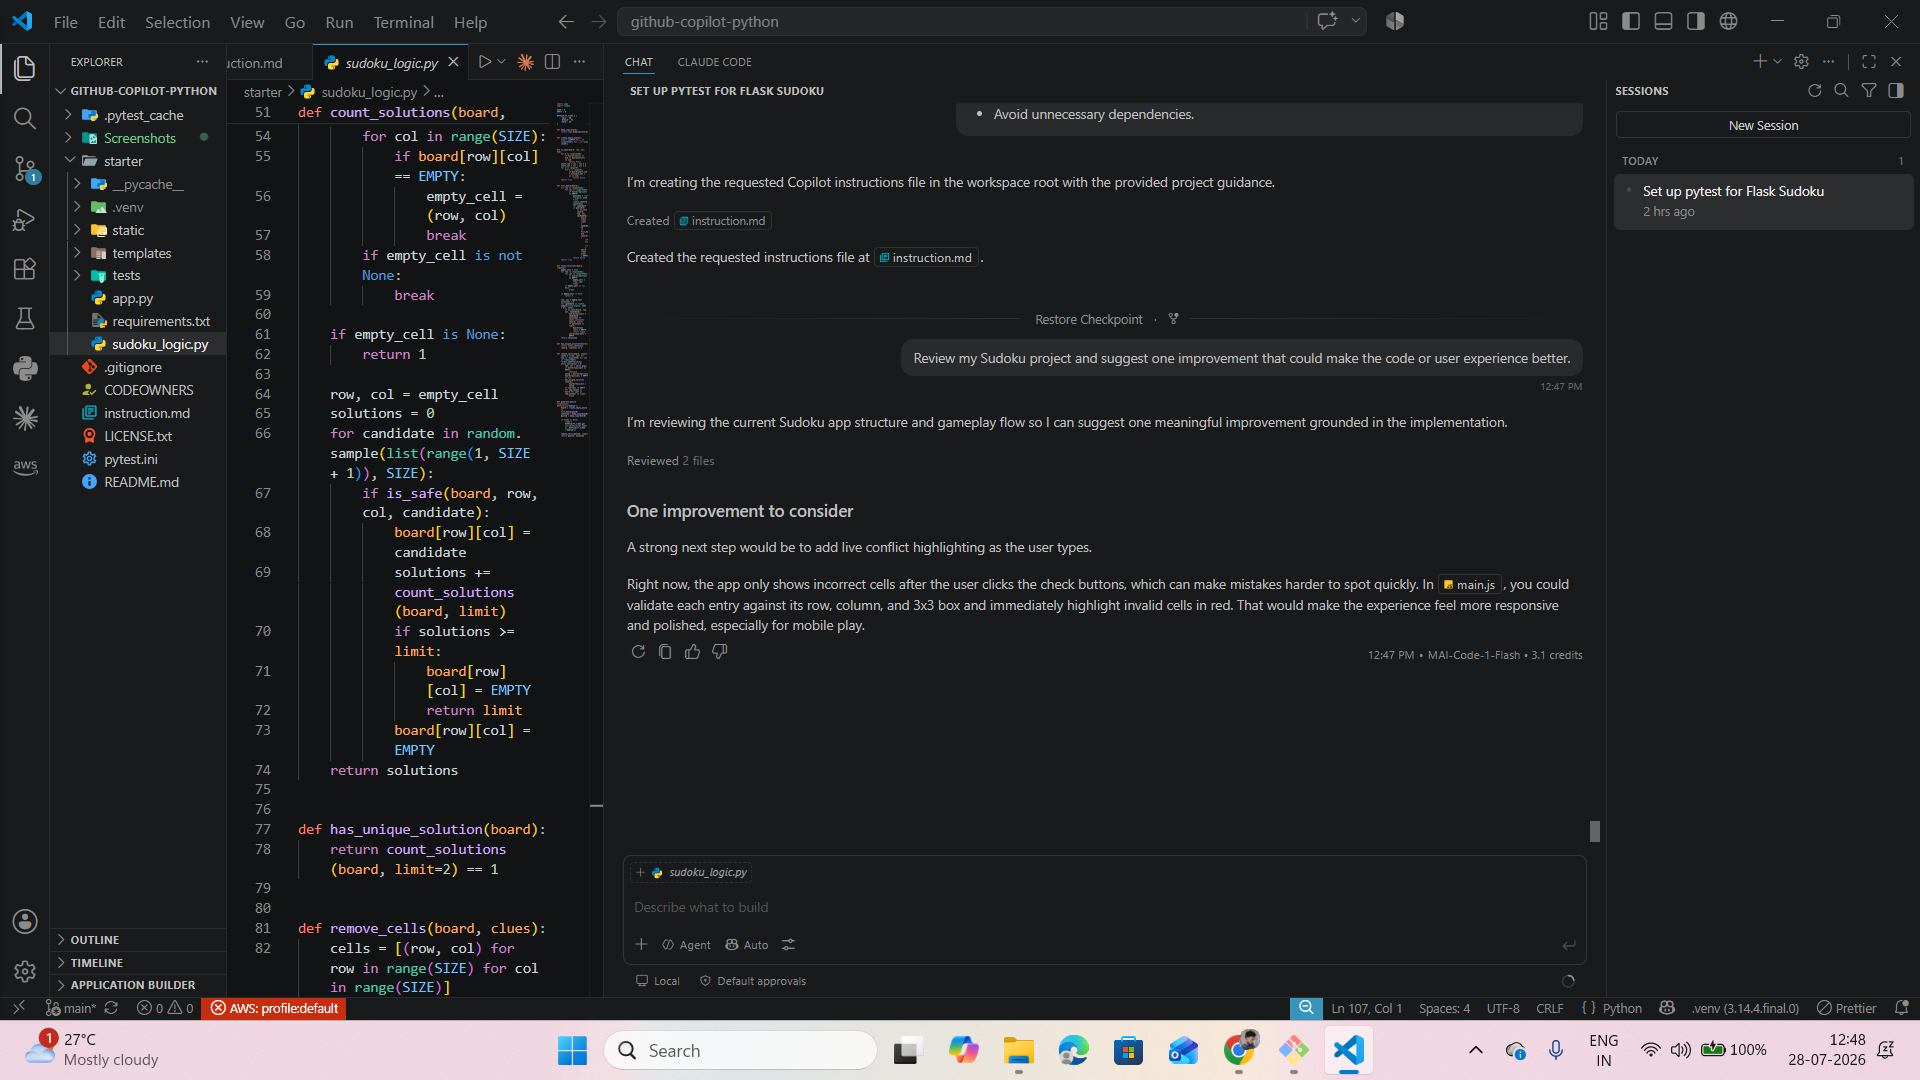
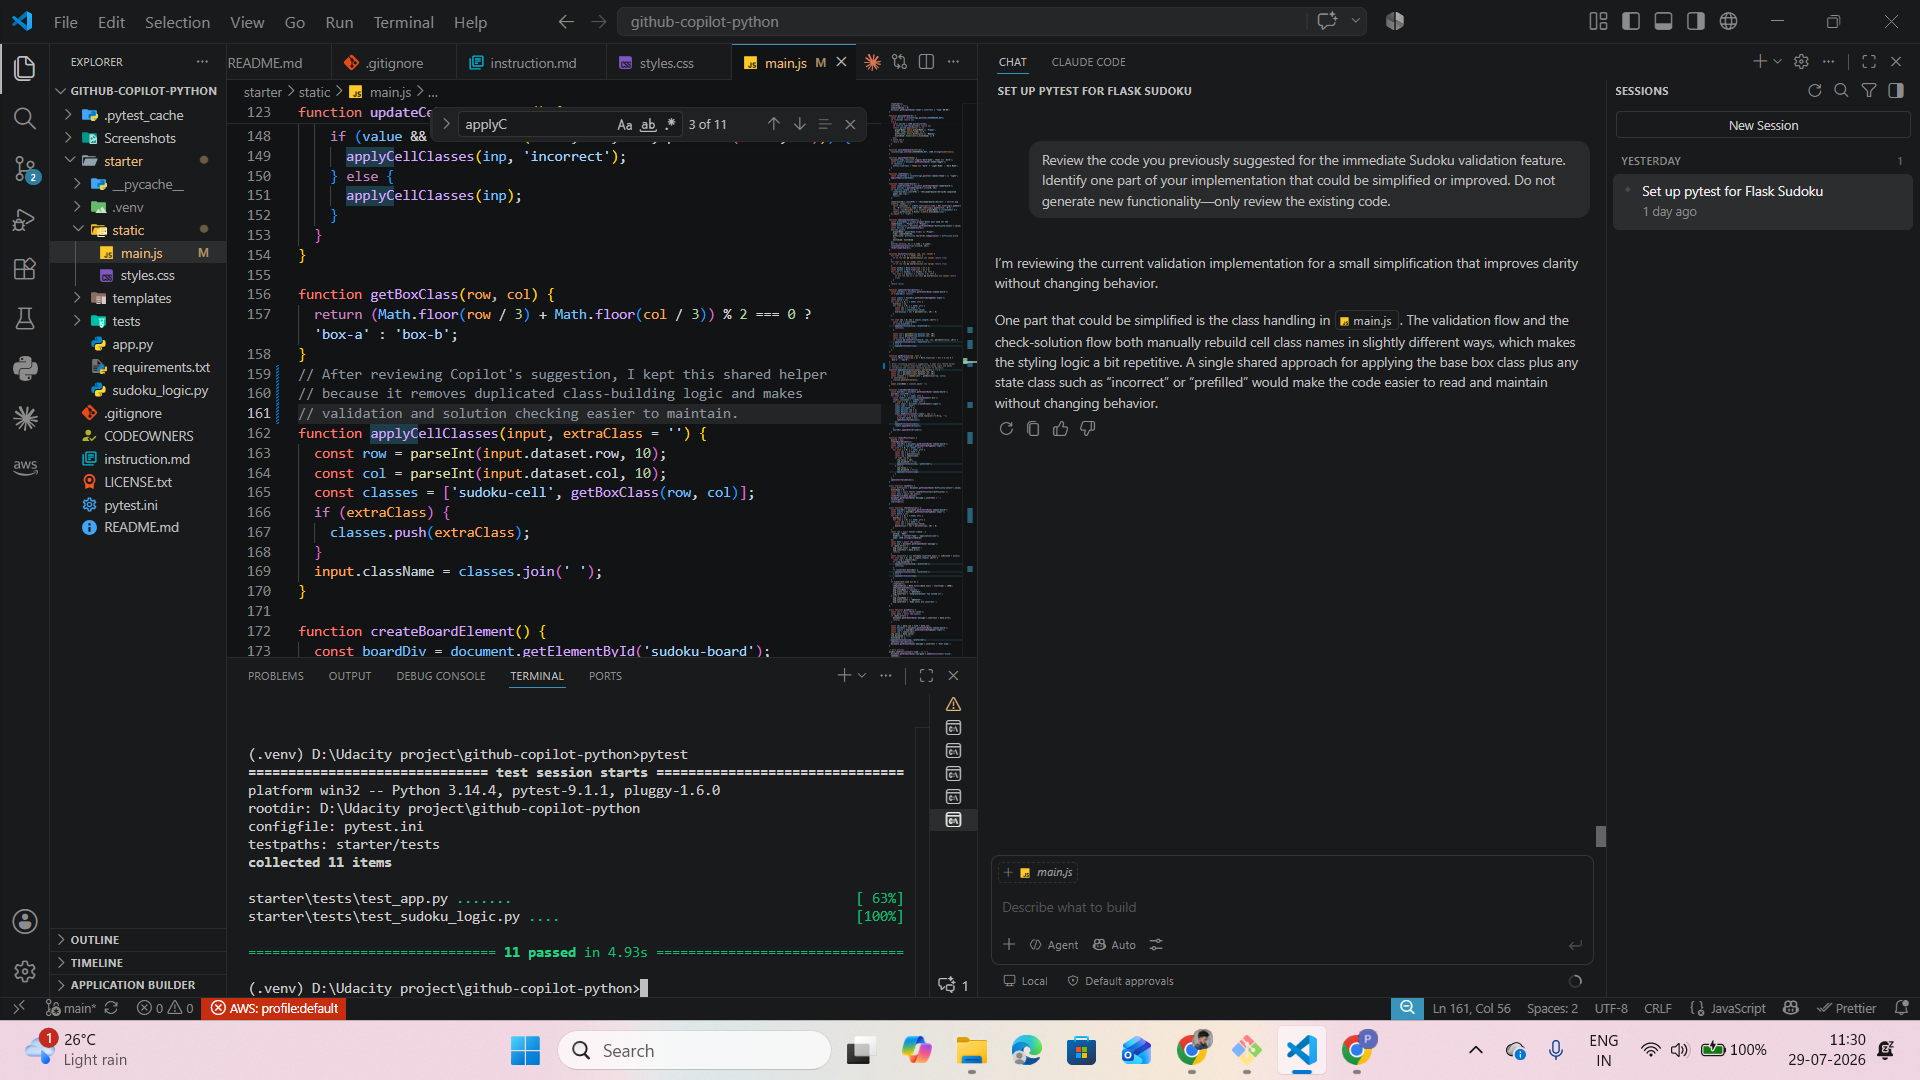
Updated main.js and added Copilot review screenshot

diff --git a/starter/static/main.js b/starter/static/main.js
@@ -156,7 +156,9 @@ function updateCellValidation() {
 function getBoxClass(row, col) {
   return (Math.floor(row / 3) + Math.floor(col / 3)) % 2 === 0 ? 'box-a' : 'box-b';
 }
-
+// After reviewing Copilot's suggestion, I kept this shared helper
+// because it removes duplicated class-building logic and makes
+// validation and solution checking easier to maintain.
 function applyCellClasses(input, extraClass = '') {
   const row = parseInt(input.dataset.row, 10);
   const col = parseInt(input.dataset.col, 10);
